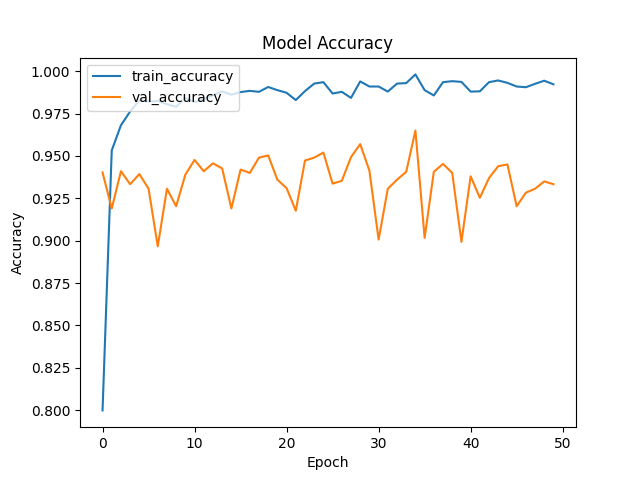
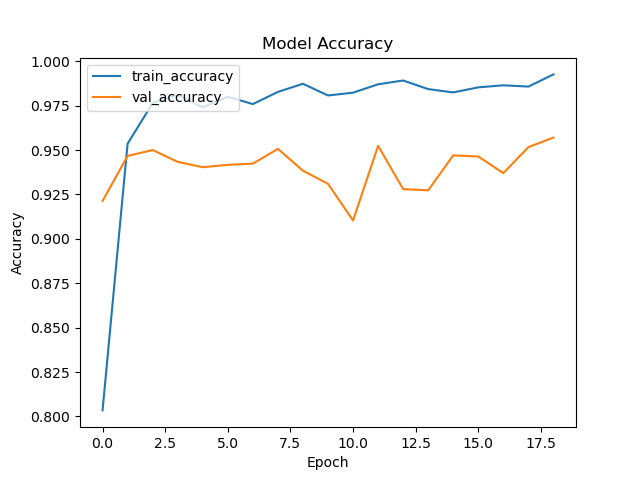
update final result

diff --git a/DenseNet169/DenseNet169.py b/DenseNet169/DenseNet169.py
@@ -31,7 +31,8 @@ CURRENT_HOME_PATH = os.path.dirname(CURRENT_DIR_PATH)
 # 設定
 image_size = (224, 224)
 batch_size = 16
-epochs = 50
+epochs = 50#50 better
+target_val_accuracy = 0.953  # 設定目標驗證準確度 better
 
 # 讀取 name.txt 和 query.txt
 with open(CURRENT_HOME_PATH + f"/name.txt", "r") as f:
@@ -116,8 +117,22 @@ model.compile(
     metrics=["accuracy"],
 )
 
-# 模型訓練
-history = model.fit(train_ds, epochs=epochs, validation_data=test_ds)
+# 自定義 Callback better
+class StopTrainingOnAccuracy(tf.keras.callbacks.Callback):
+    def __init__(self, target_accuracy):
+        super().__init__()
+        self.target_accuracy = target_accuracy
+
+    def on_epoch_end(self, epoch, logs=None):
+        val_acc = logs.get("val_accuracy")
+        if val_acc is not None and val_acc >= self.target_accuracy:
+            print(f"\n驗證準確度達到 {val_acc:.2f}，訓練停止。")
+            self.model.stop_training = True
+
+
+# 模型訓練 better 加入暫停
+callbacks = [StopTrainingOnAccuracy(target_accuracy=target_val_accuracy)]
+history = model.fit(train_ds, epochs=epochs, validation_data=test_ds, callbacks=callbacks)
 
 # 儲存模型
 model.save(filepath=CURRENT_DIR_PATH + f"/model/", overwrite=True, save_format="tf")
